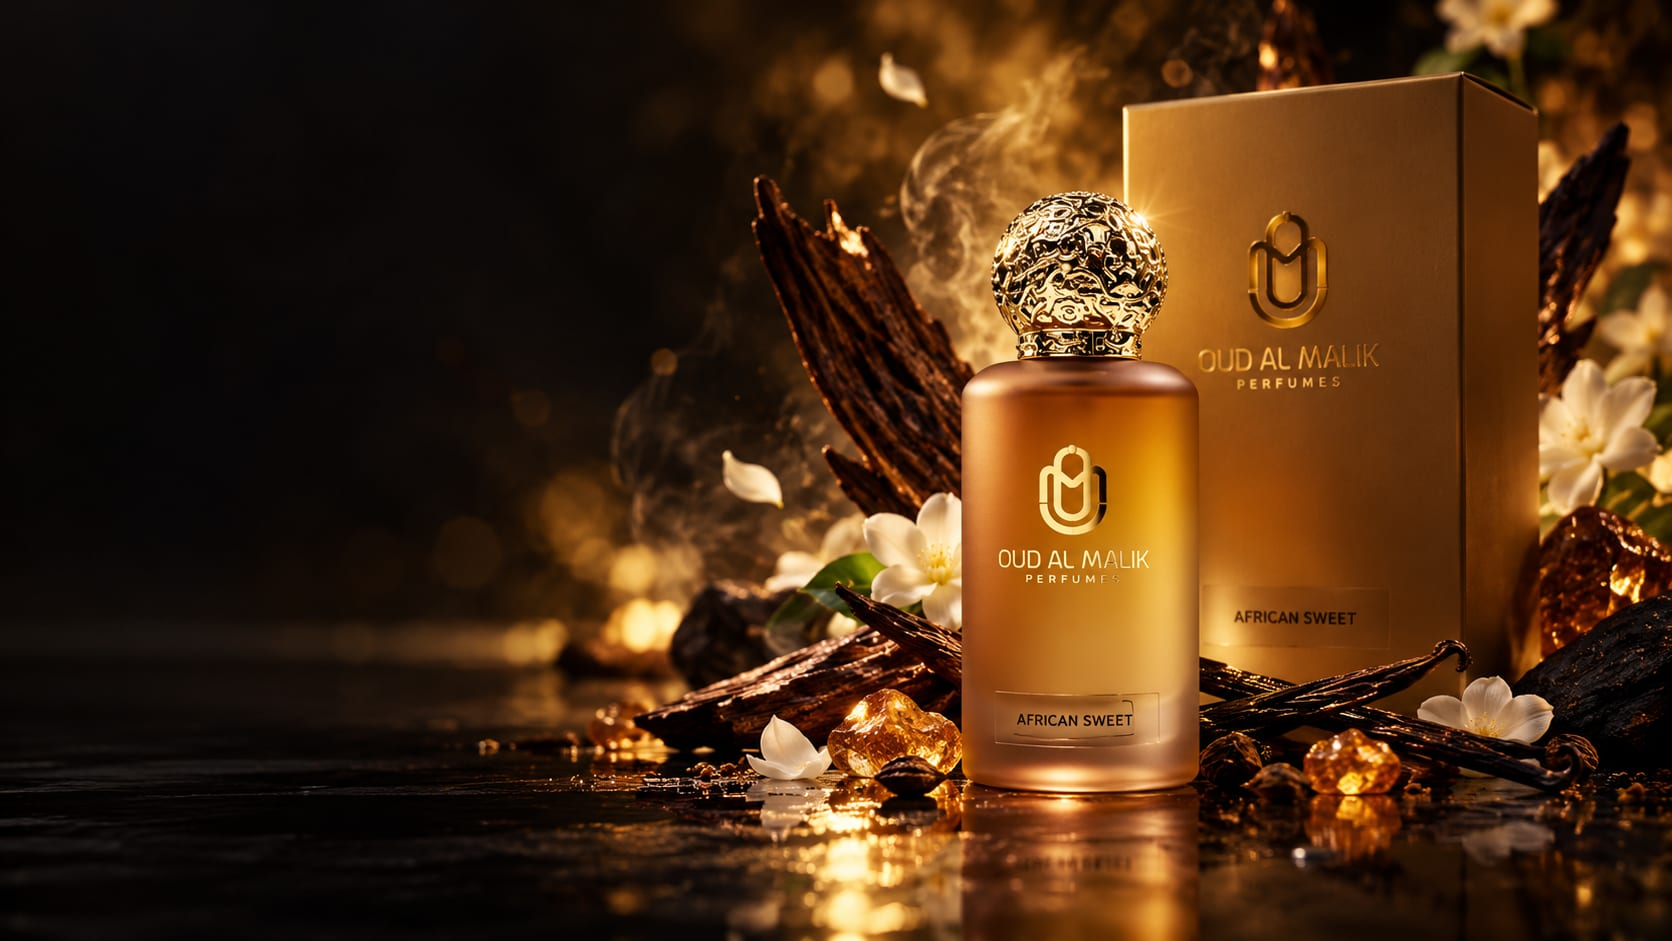
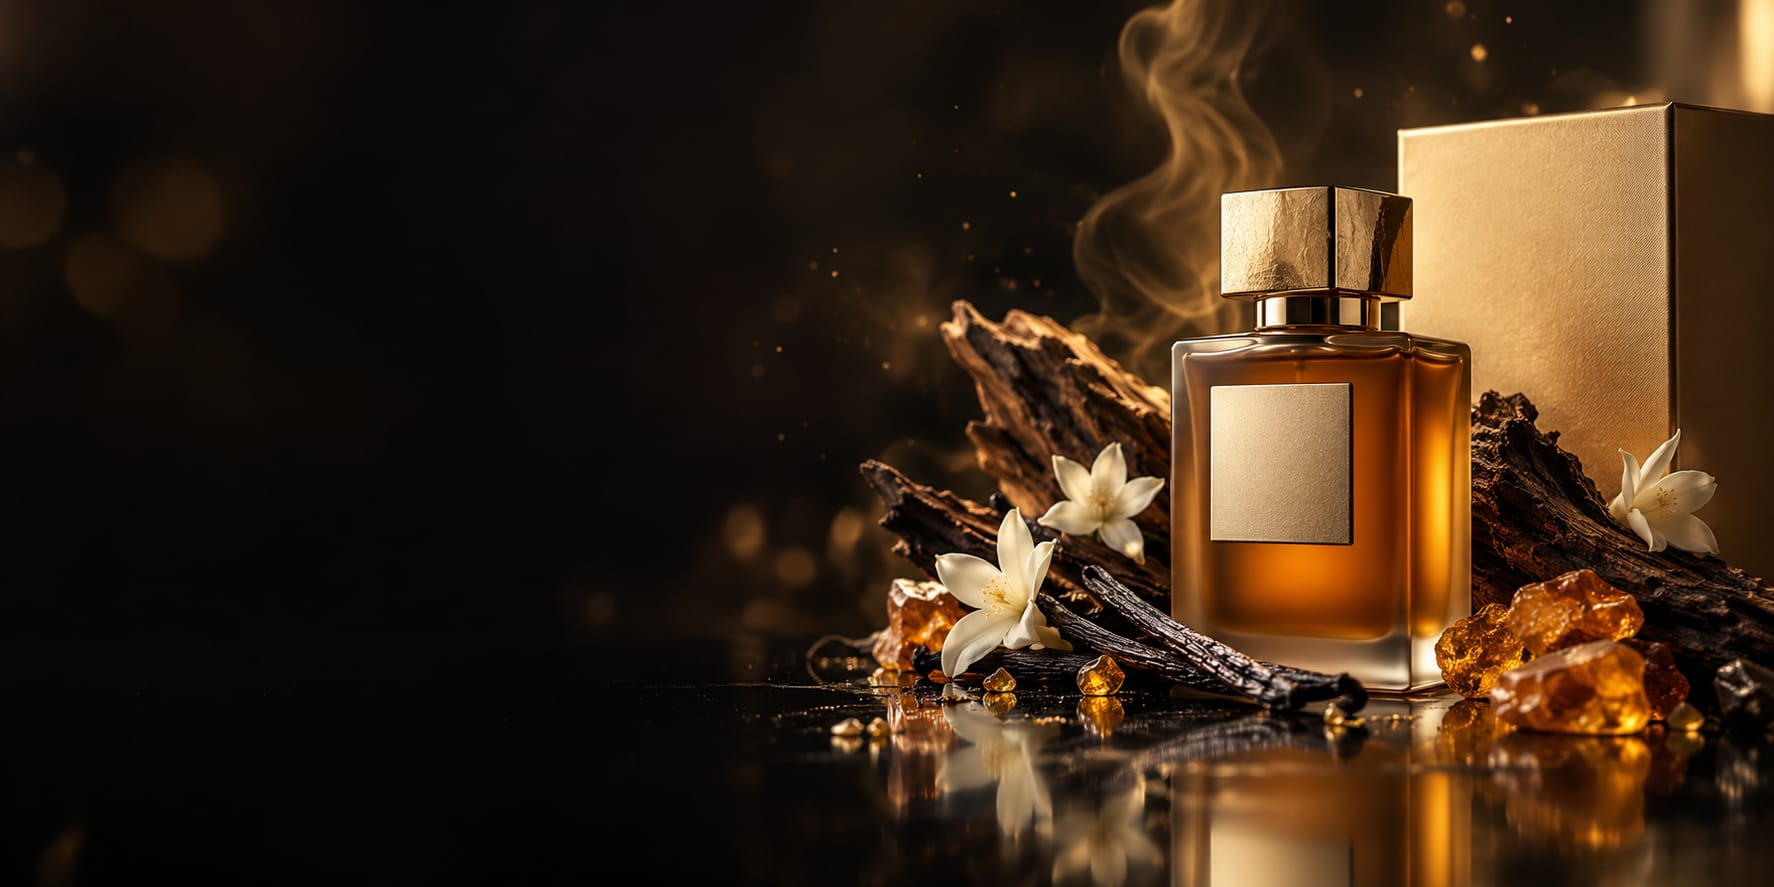
Explorer par univers en slider Fashion Main ; visuels de la page d'accueil intégrés
- Explorer par univers : fashion-main/Collections2 (slider pleine largeur, points de pagination), alimenté par les catégories WooCommerce (Sacs, Chaussures, Parfums, Cosmétiques), texte en bas de l'image
- Visuels : Hero desktop et mobile, cartes Homme/Femme/Unisexe, univers Sacs/Chaussures/Parfums/Cosmétiques, fond de repli (images optimisées en JPG)
- Priorité des images de catégorie : image WooCommerce > visuel local (home-config) > image du produit récent > fond de repli

Claude-Session: https://claude.ai/code/session_01A3L4D2ncigvSuNNVwEMuWb

diff --git a/components/homes/fashion-main/Collections2.jsx b/components/homes/fashion-main/Collections2.jsx
@@ -5,9 +5,24 @@ import { Swiper, SwiperSlide } from "swiper/react";
 
 import Link from "next/link";
 import { Pagination } from "swiper/modules";
-export default function Collections2() {
+// Par defaut : donnees du template (page demo). Props facultatives pour l'accueil :
+// `items` (id, imgSrc, alt, title, description, btnText, href, imgWidth, imgHeight, delay),
+// `title` : titre de section affiche au-dessus du slider, `className`.
+export default function Collections2({
+  items = collections3,
+  title,
+  className = "",
+}) {
+  if (!items.length) return null;
   return (
-    <section>
+    <section className={className}>
+      {title && (
+        <div className="container">
+          <div className="heading-section text-center wow fadeInUp">
+            <h3 className="heading">{title}</h3>
+          </div>
+        </div>
+      )}
       <Swiper
         dir="ltr"
         spaceBetween={8}
@@ -24,43 +39,44 @@ export default function Collections2() {
           el: ".spd40",
         }}
       >
-        {collections3.map((collection) => (
-          <SwiperSlide key={collection.id}>
-            <div className="collection-position style-lg hover-img">
-              <a className="img-style">
-                <img
-                  className="lazyload"
-                  data-src={collection.imgSrc}
-                  alt={collection.alt}
-                  src={collection.imgSrc}
-                  width={collection.imgWidth}
-                  height={collection.imgHeight}
-                />
-              </a>
-              <div className="content">
-                <h3 className="title wow fadeInUp">
-                  <Link href={`/shop-collection`} className="link text-white">
-                    {collection.title}
-                  </Link>
-                </h3>
-                <p
-                  className="desc text-white wow fadeInUp"
-                  data-wow-delay={collection.delay}
-                >
-                  {collection.description}
-                </p>
-                <div className="wow fadeInUp" data-wow-delay={collection.delay}>
-                  <Link
-                    href={`/shop-collection`}
-                    className="btn-line style-white"
+        {items.map((collection) => {
+          const href = collection.href || "/shop-collection";
+          return (
+            <SwiperSlide key={collection.id}>
+              <div className="collection-position style-lg hover-img">
+                <Link href={href} className="img-style" aria-label={collection.title}>
+                  <img
+                    className="lazyload"
+                    data-src={collection.imgSrc}
+                    alt={collection.alt}
+                    src={collection.imgSrc}
+                    width={collection.imgWidth || 950}
+                    height={collection.imgHeight || 950}
+                    loading="lazy"
+                  />
+                </Link>
+                <div className="content">
+                  <h3 className="title wow fadeInUp">
+                    <Link href={href} className="link text-white">
+                      {collection.title}
+                    </Link>
+                  </h3>
+                  <p
+                    className="desc text-white wow fadeInUp"
+                    data-wow-delay={collection.delay}
                   >
-                    {collection.btnText}
-                  </Link>
+                    {collection.description}
+                  </p>
+                  <div className="wow fadeInUp" data-wow-delay={collection.delay}>
+                    <Link href={href} className="btn-line style-white">
+                      {collection.btnText}
+                    </Link>
+                  </div>
                 </div>
               </div>
-            </div>
-          </SwiperSlide>
-        ))}
+            </SwiperSlide>
+          );
+        })}
         <div className="sw-pagination-collection sw-dots type-circle justify-content-center spd40" />
       </Swiper>
     </section>

diff --git a/styles/home.scss b/styles/home.scss
@@ -42,6 +42,8 @@
   .collection-position .img-style img {
     aspect-ratio: 4 / 3; // mobile : cartes larges, une par ligne
     height: auto;
+    object-fit: cover;
+    object-position: 50% 18%; // portraits : on garde le visage lors du recadrage
 
     @media (min-width: 768px) {
       aspect-ratio: 4 / 5;
@@ -196,57 +198,50 @@
   }
 }
 
-// ---------- 04 Explorer par univers : meme composant et memes cartes que Homme / Femme / Unisexe, en grille ----------
-// Pas de slider : les cartes sont toutes visibles (1 par ligne en mobile, 2 en tablette, 3 sur desktop).
-.hm-collections--grid {
-  .tf-sw-collection .swiper-wrapper {
-    display: grid;
-    grid-template-columns: 1fr;
-    gap: 12px;
-    transform: none !important;
+// ---------- 04 Explorer par univers (composant Modave fashion-main/Collections2, adapte) ----------
+// Slider pleine largeur du template (3 cartes en desktop, 2 en tablette, 1 en mobile, points de pagination).
+.hm-universes {
+  padding-top: 32px;
+  padding-bottom: 32px;
 
-    @media (min-width: 576px) {
-      grid-template-columns: repeat(2, minmax(0, 1fr));
-      gap: 16px;
-    }
-    @media (min-width: 992px) {
-      grid-template-columns: repeat(3, minmax(0, 1fr));
-      gap: 20px;
-    }
+  @media (min-width: 768px) {
+    padding-top: 56px;
   }
 
-  .tf-sw-collection .swiper-slide {
-    width: auto !important;
-    margin: 0 !important;
-  }
+  // Voile pour garder le texte blanc lisible sur toute image (ou sur le visuel de remplacement).
+  .collection-position .img-style {
+    position: relative;
+    background: var(--line);
 
-  // 4 univers : 2 x 2 puis 4 colonnes en grand ecran ; 2 univers : 2 colonnes (jamais de colonne orpheline).
-  &.hm-collections--n4 .tf-sw-collection .swiper-wrapper {
-    @media (min-width: 992px) {
-      grid-template-columns: repeat(2, minmax(0, 1fr));
-    }
-    @media (min-width: 1200px) {
-      grid-template-columns: repeat(4, minmax(0, 1fr));
-    }
-  }
-
-  // 2 x 2 en largeur moyenne : cartes plus basses pour ne pas allonger la page.
-  &.hm-collections--n4 .collection-position .img-style img {
-    @media (min-width: 992px) and (max-width: 1199.98px) {
-      aspect-ratio: 4 / 3;
-    }
-  }
-
-  &.hm-collections--n2 .tf-sw-collection .swiper-wrapper {
-    @media (min-width: 576px) {
-      grid-template-columns: repeat(2, minmax(0, 1fr));
+    &::after {
+      content: "";
+      position: absolute;
+      inset: 0;
+      background: linear-gradient(to top, rgba(0, 0, 0, 0.55), rgba(0, 0, 0, 0.05) 65%);
+      pointer-events: none;
     }
   }
 
   .collection-position .img-style img {
-    @media (min-width: 576px) and (max-width: 991.98px) {
-      aspect-ratio: 4 / 3;
+    aspect-ratio: 1 / 1;
+    height: auto;
+    object-fit: cover;
+
+    @media (min-width: 768px) {
+      aspect-ratio: 4 / 5;
     }
+  }
+
+  // Texte en bas de l'image (les visuels laissent la moitie basse calme et sombre).
+  .collection-position .content {
+    z-index: 2;
+    top: auto;
+    bottom: 28px;
+    transform: none;
+  }
+
+  .sw-dots {
+    margin-top: 20px;
   }
 }
 
@@ -576,6 +571,7 @@
 $hm-accent: #c9a24b;
 
 .hm-collections,
+.hm-universes,
 .hm-arrivals,
 .hm-featured {
   .heading-section {

diff --git a/lib/woocommerce/home-config.js b/lib/woocommerce/home-config.js
@@ -7,11 +7,15 @@
 // (Produits > Categories) avec l'un des slugs ci-dessous, puis lui ajouter une image (sinon l'image du
 // produit le plus recent de la categorie est utilisee).
 
-/** Section 02 : Homme / Femme / Unisexe. `label` = texte affiche. */
+/**
+ * Section 02 : Homme / Femme / Unisexe. `label` = texte affiche.
+ * `image` (facultatif) : visuel editorial local, utilise quand la categorie WooCommerce n'a pas d'image propre
+ * (une image de categorie definie dans WooCommerce reste prioritaire).
+ */
 export const HOME_AUDIENCES = [
-  { key: "homme", label: "Homme", slugs: ["homme", "men"] },
-  { key: "femme", label: "Femme", slugs: ["femme", "women"] },
-  { key: "unisexe", label: "Unisexe", slugs: ["unisexe", "unisex"] },
+  { key: "homme", label: "Homme", slugs: ["homme", "men"], image: "/images/home/cat-homme.jpg" },
+  { key: "femme", label: "Femme", slugs: ["femme", "women"], image: "/images/home/cat-femme.jpg" },
+  { key: "unisexe", label: "Unisexe", slugs: ["unisexe", "unisex"], image: "/images/home/cat-unisexe.jpg" },
 ];
 
 /**
@@ -19,10 +23,10 @@ export const HOME_AUDIENCES = [
  * Slugs cibles uniquement. Une categorie absente ou sans produit publie reste masquee jusqu'a sa creation.
  */
 export const HOME_TYPES = [
-  { key: "sacs", label: "Sacs", slugs: ["sacs-accessoires"] },
-  { key: "chaussures", label: "Chaussures", slugs: ["chaussures"] },
-  { key: "parfums", label: "Parfums", slugs: ["parfums"] },
-  { key: "cosmetiques", label: "Cosmétiques", slugs: ["cosmetiques"] },
+  { key: "sacs", label: "Sacs", slugs: ["sacs-accessoires"], image: "/images/home/cat-sacs.jpg" },
+  { key: "chaussures", label: "Chaussures", slugs: ["chaussures"], image: "/images/home/cat-chaussures.jpg" },
+  { key: "parfums", label: "Parfums", slugs: ["parfums"], image: "/images/home/cat-parfums.jpg" },
+  { key: "cosmetiques", label: "Cosmétiques", slugs: ["cosmetiques"], image: "/images/home/cat-cosmetiques.jpg" },
   { key: "accessoires", label: "Accessoires", slugs: ["accessories"] },
   { key: "beaute", label: "Beauté", slugs: ["beaute"] },
 ];
@@ -52,13 +56,14 @@ export const HOME_FEATURED_COUNT = 8;
 export const HOME_FEATURED_MIN = 4;
 
 /**
- * Contenu du Hero : photo de parfum (visuel paysage, recadre sur le flacon en mobile). Une seule diapositive :
+ * Contenu du Hero : photo de parfum (paysage en desktop, portrait `imgMobileSrc` en mobile). Une seule diapositive :
  * ajouter des entrees pour activer le carrousel. Champs optionnels : `imgMobileSrc`, `secondary` ({ label, href }).
  */
 export const HOME_HERO_SLIDES = [
   {
     imgSrc: "/images/hero/hero-parfum-desktop.jpg",
-    alt: "Eau de parfum African Sweet, Oud Al Malik Perfumes, et son coffret dore",
+    imgMobileSrc: "/images/hero/hero-parfum-mobile.jpg",
+    alt: "Flacon de parfum en verre ambre et coffret dore, entoures de bois d'oud, de vanille et de jasmin",
     subheading: "NOUVELLE SÉLECTION",
     heading: "Le style qui vous ressemble.",
     text: "Parfums, accessoires et essentiels lifestyle sélectionnés avec soin.",

diff --git a/lib/woocommerce/home.js b/lib/woocommerce/home.js
@@ -2,11 +2,13 @@ import "server-only";
 import { getCategories, getProducts, isWooConfigured } from "./index";
 import { HOME_AUDIENCES, HOME_TYPES } from "./home-config";
 
-const PLACEHOLDER = "/images/products/placeholder.svg";
+// Visuel de repli des blocs de l'accueil (categorie sans image ni produit illustre).
+const PLACEHOLDER = "/images/home/placeholder-fragrance.jpg";
 
 /**
  * Resout les blocs de configuration vers de vraies categories WooCommerce.
- * Image : image de la categorie si elle existe, sinon image du produit publie le plus recent de la categorie.
+ * Image : image de la categorie WooCommerce, sinon visuel editorial local (`entry.image`), sinon image du produit
+ * publie le plus recent de la categorie.
  * Renvoie uniquement les blocs disponibles (categorie existante et non vide).
  */
 async function resolveBlocks(config, categories) {
@@ -15,7 +17,8 @@ async function resolveBlocks(config, categories) {
   for (const entry of config) {
     const category = entry.slugs.map((s) => bySlug.get(s)).find((c) => c && c.count > 0);
     if (!category) continue;
-    let image = category.image?.src || null;
+    // Priorite : image de la categorie WooCommerce > visuel editorial local > image du produit recent > placeholder.
+    let image = category.image?.src || entry.image || null;
     if (!image) {
       try {
         const { products } = await getProducts({ category: category.id, perPage: 6, orderby: "date", order: "desc" });

diff --git a/app/page.jsx b/app/page.jsx
@@ -3,6 +3,7 @@ import Header1 from "@/components/headers/Header1";
 import Topbar from "@/components/headers/Topbar";
 import Hero from "@/components/homes/home-1/Hero";
 import Collections from "@/components/homes/fashion-classyCove/Collections";
+import Collections2 from "@/components/homes/fashion-main/Collections2";
 import Products from "@/components/homes/fashion-chicHaven-02/Products";
 import Products1 from "@/components/homes/sock/Products1";
 import NewsLetter from "@/components/homes/jewelry-02/NewsLetter";
@@ -85,18 +86,15 @@ export default async function HomePage() {
         wooProducts={arrivals.products}
         error={arrivals.error}
       />
-      <Collections
-        className={`hm-collections hm-collections--grid hm-collections--n${universes.length}`}
-        btnClass="tf-btn btn-fill btn-white"
-        btnIcon
+      <Collections2
+        className="hm-universes"
         title="Explorer par univers"
-        subtitle=""
         items={universes.map((b) => ({
           id: b.key,
           imgSrc: b.image,
           alt: b.label,
           title: b.label,
-          desc: `${b.count} produit${b.count > 1 ? "s" : ""}`,
+          description: `${b.count} produit${b.count > 1 ? "s" : ""}`,
           btnText: "Découvrir",
           href: b.href,
         }))}
